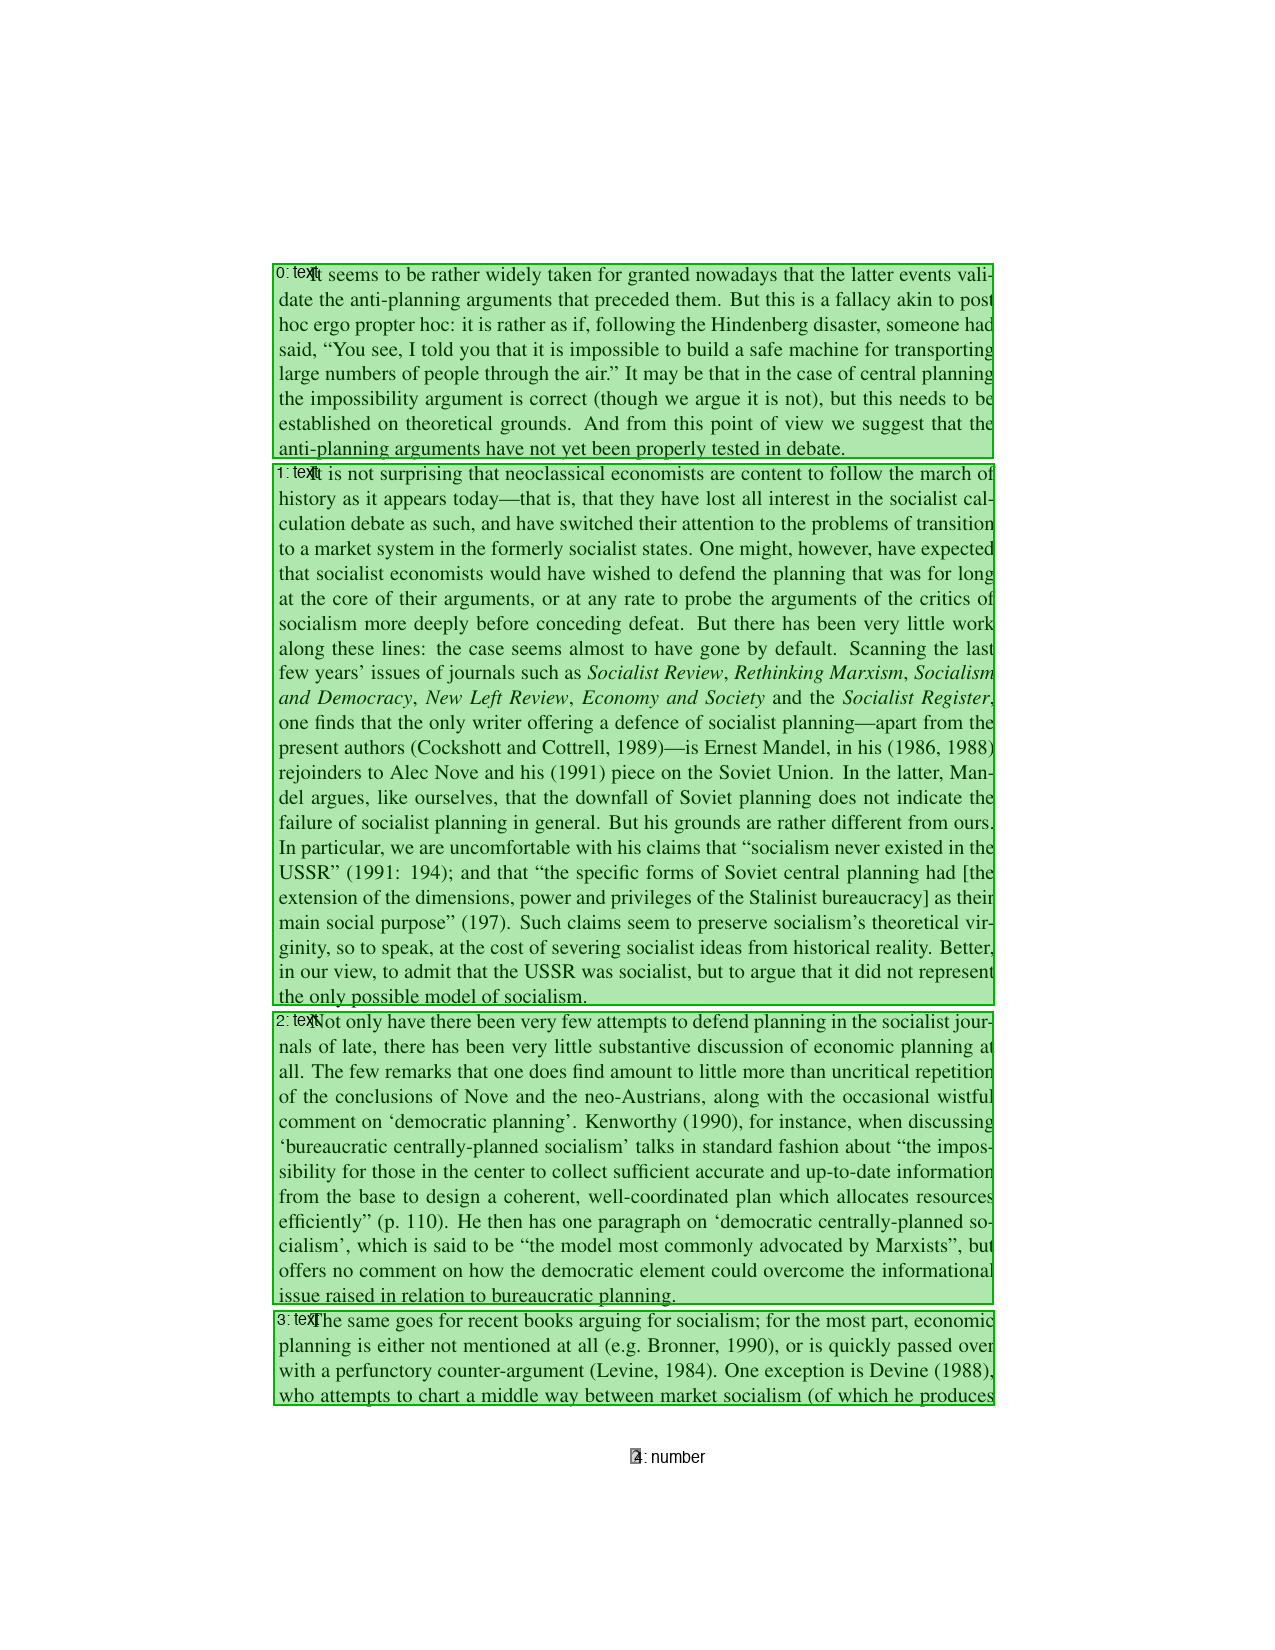
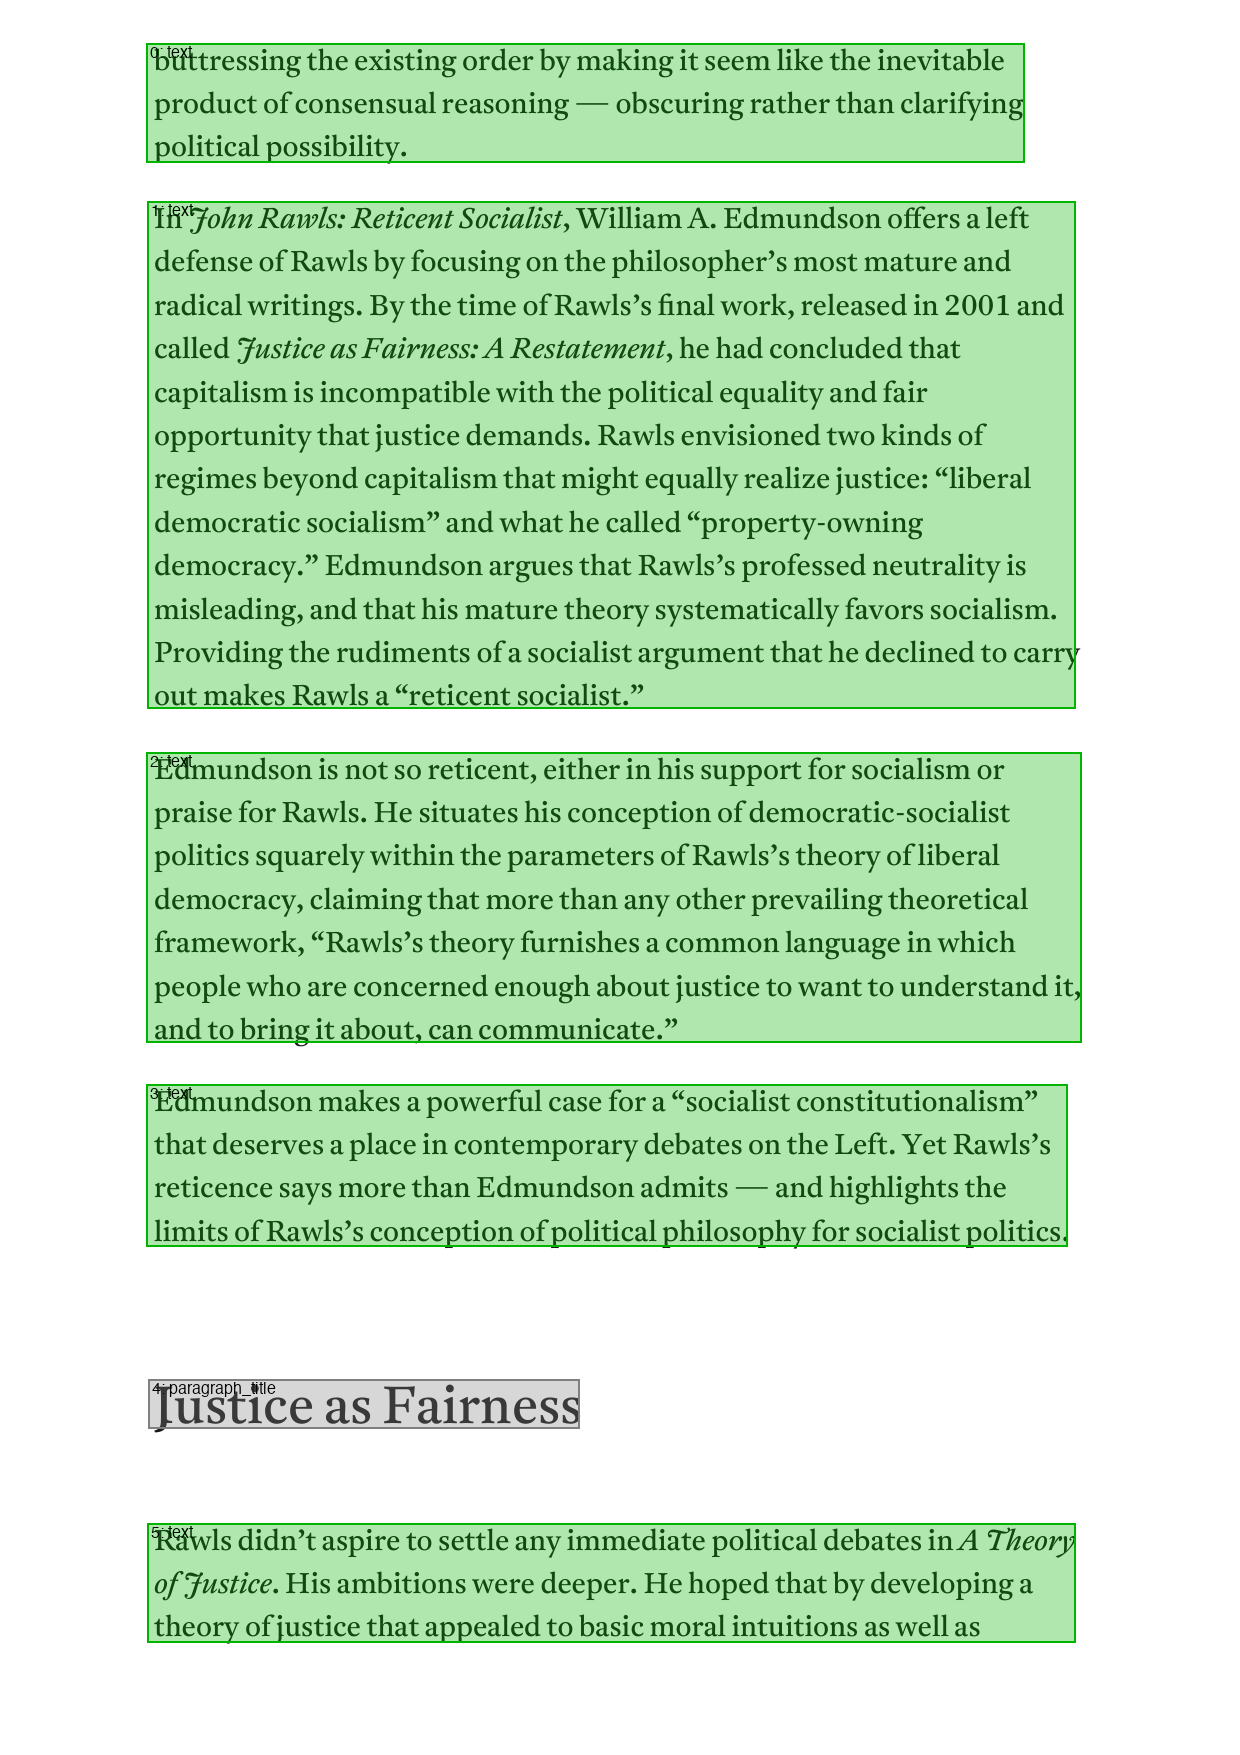
Eliminated some frontmatter, but how to preserve TOC

diff --git a/src/prompts.py b/src/prompts.py
@@ -383,32 +383,32 @@ TEXT SAMPLE:
 
 def build_summary_prompt(chapter_intros: str) -> tuple[str, str]:
     """
-    Build prompts to generate a book-level summary from chapter introductions.
+    Build prompts to generate a document-level summary from section introductions.
 
     Args:
-        chapter_intros: Concatenated introductory text from each chapter.
+        chapter_intros: Concatenated introductory text from each section.
 
     Returns:
         Tuple of (system_prompt, user_prompt).
     """
-    system_prompt = """You are a skilled book analyst. You read introductory passages from 
-each chapter of a book and produce a concise, accurate overview of the book's topic, 
+    system_prompt = """You are a skilled document analyst. You read introductory passages from 
+each section of a document and produce a concise, accurate overview of the document's topic, 
 purpose, and main themes."""
 
-    user_prompt = f"""Below are the opening passages from each chapter of a book. Based on 
+    user_prompt = f"""Below are the opening passages from each section of a document. Based on 
 these excerpts, write a concise overview (about 300-500 words) that describes:
 
-1. What this book is about (main topic/subject)
+1. What this document is about (main topic/subject)
 2. Who the intended audience seems to be
-3. The main themes or arguments the book explores
+3. The main themes or arguments the document explores
 4. The overall structure or progression of ideas
 
 Write in clear, plain English. This summary will be used to provide context when 
-simplifying individual sections of the book.
+simplifying individual sections of the document.
 
 Output ONLY the summary, no other text.
 
-CHAPTER OPENINGS:
+SECTION OPENINGS:
 {chapter_intros}"""
 
     return system_prompt, user_prompt
@@ -542,41 +542,46 @@ TEXT:
     return system_prompt, user_prompt
 
 
-def build_formatting_prompt(markdown_text: str) -> tuple[str, str]:
+def build_intro_prompt(
+    doc_summary: str,
+    title: str = "",
+    author: str = "",
+) -> tuple[str, str]:
     """
-    Build a prompt for a final formatting pass over the output markdown.
+    Build a prompt to generate a short reader-facing introduction.
 
-    Asks the LLM to add proper markdown heading formatting (##, ###)
-    and bold key terms, without changing any content.
+    This creates a 2-3 sentence orientation that sets context for the reader
+    and invites them into the body text.
 
     Args:
-        markdown_text: The complete assembled markdown output.
+        doc_summary: The generated document summary.
+        title:       Document title.
+        author:      Author name.
 
     Returns:
         Tuple of (system_prompt, user_prompt).
     """
-    system_prompt = """You are a markdown formatter. Your ONLY job is to add proper heading 
-formatting to a document. You must NOT change any words, sentences, or paragraphs.
+    system_prompt = """You write brief, engaging introductions for simplified academic texts. 
+Your intro should orient the reader and make them want to read on.
 
 RULES:
-1. Identify section headers and format them as ## (major sections) or ### (subsections).
-   Section headers are typically: numbered points ("1.", "2."), standalone short lines that 
-   introduce a new topic, or lines that were clearly headings in the original.
-2. If a paragraph starts with a section number like "2." or "6." followed by a topic shift, 
-   extract just the number as a heading: "## 2." and keep the body text as the paragraph.
-   Do NOT do this if the number is part of a regular sentence flow.
-3. Bold key terms, proper nouns, and important concepts when they first appear — but sparingly.
-   Do NOT bold entire sentences or common words.
-4. Keep the # title and *By Author* exactly as they are.
-5. Do NOT add, remove, merge, or split any paragraphs.
-6. Do NOT change any wording. Output the EXACT same text with only formatting changes.
-7. Preserve all footnote markers [^N] exactly.
-8. Output the COMPLETE document — do not truncate or summarize."""
+1. Write exactly 2-3 sentences.
+2. First sentence: What is this text about? (topic + author's main question/argument)
+3. Second sentence: Why does it matter? (stakes, relevance, or what the reader will learn)
+4. Optional third sentence: A hook that transitions into the body text.
+5. Write in second person ("you") or impersonal style — NOT "the author argues".
+6. Do NOT use academic jargon. Write at a newspaper level.
+7. Do NOT use the word "book", "essay", or "paper". Always refer to it as "this document".
+8. Output ONLY the introduction text, nothing else."""
 
-    user_prompt = f"""Add proper markdown heading formatting to this document. 
-Do NOT change any content — only add ## headings, ### subheadings, and **bold** key terms.
-Output the COMPLETE formatted document.
+    user_prompt = f"""Write a 2-3 sentence introduction for this simplified academic text.
 
-{markdown_text}"""
+Title: {title}
+Author: {author}
+Document summary: {doc_summary}
+
+The introduction should orient a general reader and invite them to read on. 
+Do NOT call it a "book", "essay", or "paper" — always say "document".
+Output ONLY the introduction text."""
 
     return system_prompt, user_prompt

diff --git a/src/pdf_parser.py b/src/pdf_parser.py
@@ -701,8 +701,16 @@ def extract_pdf_with_paddle(pdf_path: str | Path) -> tuple[str, dict, list[dict]
     footnotes = []
     region_counts = {}
 
+    skipped_pages = []
     for page_idx in range(len(doc)):
         page = doc[page_idx]
+
+        # Skip blank pages
+        page_text = page.get_text("text").strip()
+        if not page_text:
+            skipped_pages.append(page_idx + 1)
+            continue
+
         page_rect = page.rect
         img_w, img_h = images[page_idx].size
         scale_x = page_rect.width / img_w
@@ -961,6 +969,40 @@ def extract_pdf_with_paddle(pdf_path: str | Path) -> tuple[str, dict, list[dict]
         if in_references and block["section_type"] == "BODY":
             block["section_type"] = "REFERENCES"
 
+    # ── Absorb frontmatter fragments ─────────────────────────────────────
+    # Short text blocks (<50 words) before the first substantial paragraph
+    # are frontmatter (bylines, citations, blurbs, dates, affiliations).
+    # Rule: on pages T and T+1 (T = title page), absorb short text blocks
+    # until we hit a text block with ≥50 words.
+    # Fallback (no title): absorb leading short text blocks on any page.
+    title_page = None
+    for block in labeled_blocks:
+        if block["label"] in ("doc_title", "title"):
+            title_page = block["page"]
+            break
+
+    absorbed = 0
+    for block in labeled_blocks:
+        if block["section_type"] != "BODY":
+            continue
+
+        word_count = len(block["text"].split())
+
+        if word_count >= 50:
+            # First substantial paragraph — stop absorbing
+            break
+
+        # Check page constraint: title page and next page, or any page if no title
+        if title_page is not None:
+            if block["page"] > title_page + 1:
+                break  # Past the frontmatter zone
+        
+        block["section_type"] = "FRONT_MATTER"
+        absorbed += 1
+
+    if absorbed:
+        print(f"  📋 Absorbed {absorbed} frontmatter fragment(s) (short blocks before first body paragraph)")
+
     # ── Merge false paragraph splits within text blocks ──────────────────
     for block in labeled_blocks:
         if block["section_type"] != "BODY":
@@ -1018,6 +1060,8 @@ def extract_pdf_with_paddle(pdf_path: str | Path) -> tuple[str, dict, list[dict]
     }
 
     print(f"  📊 Paddle detected: {structure['total_regions']} regions across {len(images)} pages")
+    if skipped_pages:
+        print(f"  🗑  Skipped {len(skipped_pages)} empty pages: {skipped_pages}")
     for label, count in sorted(region_counts.items()):
         print(f"     {label}: {count}")
 

diff --git a/run.py b/run.py
@@ -148,6 +148,10 @@ Options:
                         help="Use Groq API with Llama 3.3 70B (fast, free, generous limits)")
     parser.add_argument("--paragraph", action="store_true",
                         help="Simplify paragraph-by-paragraph (better quality for weaker models)")
+    parser.add_argument("--title", type=str, default=None,
+                        help="Override document title (otherwise auto-detected from PDF)")
+    parser.add_argument("--author", type=str, default=None,
+                        help="Override author name (otherwise auto-detected from PDF)")
 
     args = parser.parse_args()
 
@@ -437,14 +441,21 @@ Options:
             for b in labeled_blocks:
                 if b["label"] in ("doc_title", "title"):
                     paddle_title = b["text"].replace("\n", " ").strip()
-                    # Remove markdown heading prefix if present
                     paddle_title = paddle_title.lstrip("# ").strip()
                     if paddle_title:
                         doc_metadata["title"] = paddle_title
-                        print(f"  📌 Using paddle title: {paddle_title}")
                     break
         except NameError:
-            pass  # labeled_blocks not available (resume mode)
+            pass
+
+    # CLI overrides take highest priority
+    if args.title:
+        doc_metadata["title"] = args.title
+    if args.author:
+        doc_metadata["author"] = args.author
+
+    print(f"  📌 Title: {doc_metadata['title']}")
+    print(f"  📌 Author: {doc_metadata['author']}")
 
     # Save scan results
     INTERMEDIATE_DIR.mkdir(parents=True, exist_ok=True)
@@ -584,6 +595,27 @@ Options:
         trim_overlaps, assemble_book, generate_toc,
         save_output, compare_lengths, insert_footnotes, qa_check_output,
     )
+
+    # Generate reader-facing intro (paddle only)
+    if use_paddle:
+        print("  📝 Generating reader introduction...")
+        from src.prompts import build_intro_prompt
+        try:
+            intro_sys, intro_usr = build_intro_prompt(
+                doc_summary=book_summary,
+                title=doc_metadata.get("title", ""),
+                author=doc_metadata.get("author", ""),
+            )
+            intro_text = llm.generate(
+                prompt=intro_usr,
+                system_prompt=intro_sys,
+                temperature=0.3,
+            )
+            if intro_text:
+                doc_metadata["intro"] = intro_text.strip()
+                print(f"  ✅ Intro: {intro_text.strip()[:100]}...")
+        except Exception as e:
+            print(f"  ⚠  Intro generation failed: {str(e)[:100]}")
 
     # doc_metadata was built from the scan in Step 4 — no file reload needed
     if OVERLAP_TOKENS > 0:

diff --git a/src/assembler.py b/src/assembler.py
@@ -141,6 +141,10 @@ def assemble_book(
         parts.append(f"# {title}\n")
         if author:
             parts.append(f"*By {author}*\n")
+        # Insert reader-facing introduction if available
+        intro = metadata.get("intro")
+        if intro:
+            parts.append(f"\n> {intro}\n")
         parts.append("---\n")
 
     # ── Validate chapter names against scan-derived sections ──────────────────
